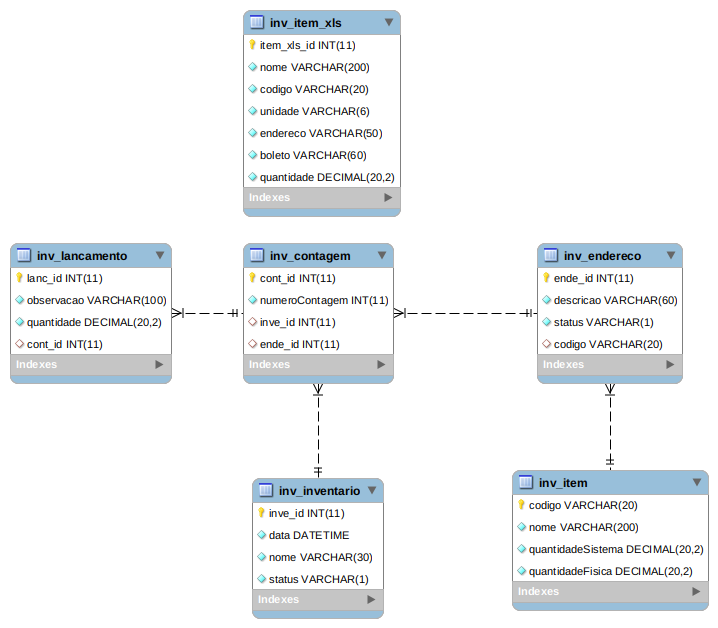
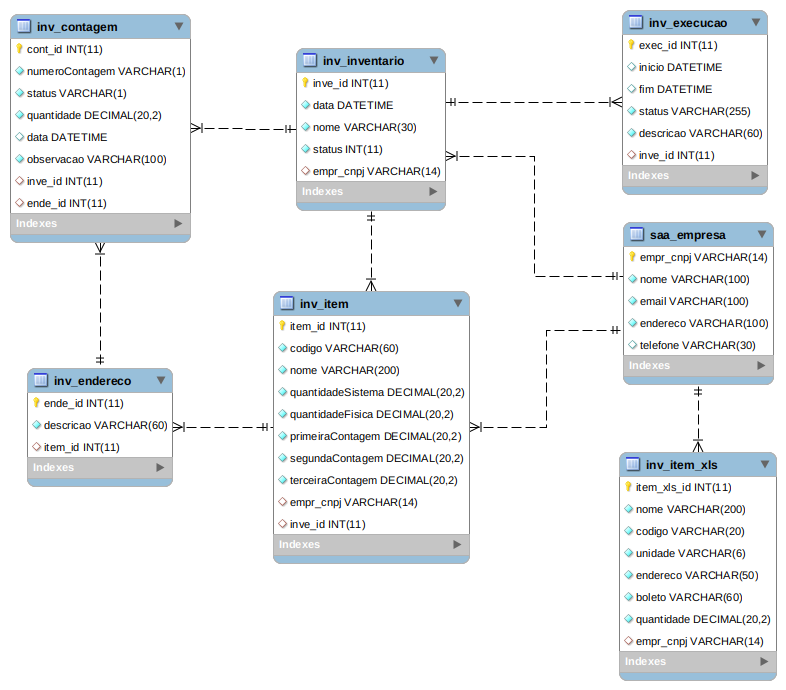
concluir a importacao dos itens

diff --git a/src/controller/ItemController.ts b/src/controller/ItemController.ts
@@ -1,32 +1,15 @@
 import { getRepository } from "typeorm";
 import { NextFunction, Request, Response } from "express";
 import { Item } from "../entity/item";
+import { Inventario } from "../entity/inventario";
+import { Endereco } from "../entity/endereco";
 
 export class ItemController {
 
     private repository = getRepository(Item);
 
-    async all(request: Request, response: Response, next: NextFunction) {
-
-        var sql = ' select distinct codigo, nome, unidade, quantidade as quantidadeSistema, 0.00 as quantidadeFisica from inv_item_xls ';
-        
-        const list = await this.repository.query( sql );
-        
-        list.forEach(element => {
-            var json = {'codigo': element.codigo, 
-                        'nome': element.nome, 
-                        'unidade': element.unidade,
-                        'quantidadeSistema': element.quantidadeSistema,
-                        'quantidadeFisica': element.quantidadeFisica,
-                        'primeiraContagem': 0.00,
-                        'segundaContagem': 0.00,
-                        'terceiraContagem': 0.00
-                    };
-            this.repository.save(json);            
-        });
-        
-        return this.repository.find();
-        
+    async all(request: Request, response: Response, next: NextFunction) {             
+        return this.repository.find();        
     }
 
     async one(request: Request, response: Response, next: NextFunction) {
@@ -40,25 +23,6 @@ export class ItemController {
     async remove(request: Request, response: Response, next: NextFunction) {
         let userToRemove = await this.repository.findOne(request.params.id);
         await this.repository.remove(userToRemove);
-    }
-
-    async import(request: Request, response: Response, next: NextFunction) {
-
-        /*
-        let list = this.repositoryItemXls.createQueryBuilder("itemXls")
-                                .distinctOn(["itemXls.codigo"])
-                                .orderBy("itemXls.codigo");
-        
-        console.log(JSON.stringify(request.body));
-        var data = request.body;
-
-        data.forEach(function (item) {
-            console.log(item.codigo);
-            console.log(item.nome);
-        });        
-        */
-
-       return 'ok';//this.repository.find();
     }
 
 

diff --git a/src/controller/ExecucaoController.ts b/src/controller/ExecucaoController.ts
@@ -48,6 +48,33 @@ export class ExecucaoController {
     }
 
     async finalizarContagem(request: Request, response: Response, next: NextFunction) {
+        console.log('request.body.status='+request.body.status);
+        console.log('request.params.id='+request.params.id);
+        const list = await this.repositoryContagem.createQueryBuilder("contagem")
+                            .innerJoin("contagem.inventario", "inventario")
+                            .where("contagem.status= :status", { status: '0' })
+                            .andWhere("inventario.id = :id", { id: request.params.id })
+                            .getMany();
+
+        console.log('list.length='+list.length);
+
+        if (list.length > 0 ){
+            return response.status(500).send('existem '+list.length+' iten(s) pendente(s) de contagem.');
+        }
+
+        return list;
+        /*
+        try {
+            await this.repository.update(request.params.id, request.body);
+            const inventario = await this.repositoryInventario.findOne(request.body.inventario.id);
+            return await this.repositoryInventario.update(inventario.id, { status: inventario.status + 1 });
+        } catch (error) {
+            return response.status(500).send('erro ao atualizar o status do inventario');
+        }
+        */
+    }
+
+    async finalizarContagemOld(request: Request, response: Response, next: NextFunction) {
         const list = await this.repositoryContagem.createQueryBuilder("contagem")
                             .innerJoin("contagem.inventario", "inventario")
                             .where("contagem.status= :status", { status: request.body.status })
@@ -65,6 +92,7 @@ export class ExecucaoController {
             return response.status(500).send('erro ao atualizar o status do inventario');
         }
     }
+
 
     async remove(request: Request, response: Response, next: NextFunction) {
         let userToRemove = await this.repository.findOne(request.params.id);

diff --git a/src/controller/ItemXlsController.ts b/src/controller/ItemXlsController.ts
@@ -1,10 +1,12 @@
-import {getRepository} from "typeorm";
+import {getRepository, getManager} from "typeorm";
 import {NextFunction, Request, Response} from "express";
 import { ItemXls } from "../entity/item-xls";
 
 export class ItemXlsController {
 
     private repository = getRepository(ItemXls);
+
+    private manager = getManager(); 
 
     async all(request: Request, response: Response, next: NextFunction) {
         return this.repository.find();
@@ -15,27 +17,28 @@ export class ItemXlsController {
     }
 
     async save(request: Request, response: Response, next: NextFunction) {
-        return this.repository.save(request.body);
-    }
-
-    //import todos os itens
-    async saveAll(request: Request, response: Response, next: NextFunction) {
-        /*
-        console.log(JSON.stringify(request.body));
-        var data = request.body;
-
-        data.forEach(function (item) {
-            console.log(item.codigo);
-            console.log(item.nome);
-        });        
-        */
-
-        return this.repository.save(request.body);
+        console.log(0);
+        const list = await this.repository.save(request.body);
+        console.log(1);
+        var sql = 'CALL importarItens(1)';
+        const result = await this.manager.query(sql);
+        console.log(2);
+        return list;
     }
 
     async remove(request: Request, response: Response, next: NextFunction) {
         let userToRemove = await this.repository.findOne(request.params.id);
         await this.repository.remove(userToRemove);
+    }
+
+    async importarItens(request: Request, response: Response, next: NextFunction) {
+        console.log('iniciou a importacao item-xls');
+        const list = await this.repository.save(request.body);
+        console.log('iniciou a importacao item e endereco');
+        var sql = 'CALL importarItens(1)';
+        const result = await this.manager.query(sql);
+        console.log('importcao concluida');
+        return list;
     }
 
 }

diff --git a/src/entity/item.ts b/src/entity/item.ts
@@ -1,10 +1,15 @@
-import { Entity, Column, OneToMany, JoinColumn, Index, PrimaryGeneratedColumn, PrimaryColumn } from "typeorm";
+import { Entity, Column, OneToMany, JoinColumn, PrimaryGeneratedColumn, ManyToOne } from "typeorm";
 import { Endereco } from "./endereco";
+import { Empresa } from "./Empresa";
+import { Inventario } from "./inventario";
 
 @Entity({name:"inv_item"})
 export class Item {
 
-    @PrimaryColumn({ length:20})
+    @PrimaryGeneratedColumn({name:"item_id"})
+    id: string;
+
+    @Column({ length:60 })
     codigo: string;
 
     @Column({length:200, nullable:false})
@@ -25,8 +30,16 @@ export class Item {
     @Column({ type: 'decimal', precision: 20, scale: 2, nullable:false})
     terceiraContagem: number;
 
-    @OneToMany(type => Endereco, endereco => endereco.item)
+    @OneToMany(type => Endereco, endereco => endereco.item, { cascade: true })
     @JoinColumn({ name: "ende_id" })
     enderecos: Endereco[];
+
+    @ManyToOne(type => Empresa, empresa => empresa.itens)
+    @JoinColumn({ name: "empr_cnpj" })
+    empresa: Empresa;
+
+    @ManyToOne(type => Inventario, inventario => inventario.itens)
+    @JoinColumn({ name: "inve_id" })
+    inventario: Inventario;
 
 }

diff --git a/src/entity/inventario.ts b/src/entity/inventario.ts
@@ -1,6 +1,9 @@
-import { Entity, Column, PrimaryGeneratedColumn, OneToMany} from "typeorm";
+import { Entity, Column, PrimaryGeneratedColumn, OneToMany, JoinColumn, ManyToOne} from "typeorm";
 import { Contagem } from "./contagem";
 import { Execucao } from "./execucao";
+import { Item } from "./item";
+import { Empresa } from "./Empresa";
+import { ItemXls } from "./item-xls";
 
 @Entity({name:"inv_inventario"})
 export class Inventario {
@@ -22,5 +25,17 @@ export class Inventario {
 
     @OneToMany(type => Execucao, execucao => execucao.inventario)
     execucoes: Execucao[];
+
+    @OneToMany(type => Item, item => item.inventario)
+    @JoinColumn({ name: "item_id" })
+    itens: Item[];
+
+    @ManyToOne(type => Empresa, empresa => empresa.inventarios)
+    @JoinColumn({ name: "empr_cnpj" })
+    empresa: Empresa;
+
+    @OneToMany(type => ItemXls, itemXls => itemXls.inventario)
+    @JoinColumn({ name: "item_xls_id" })
+    itensXls: ItemXls[];
 
 }

diff --git a/src/entity/Empresa.ts b/src/entity/Empresa.ts
@@ -1,11 +1,11 @@
-import { Entity, Column, PrimaryGeneratedColumn, ManyToOne, JoinColumn, PrimaryColumn } from "typeorm";
+import { Entity, Column, PrimaryColumn, OneToMany, JoinColumn } from "typeorm";
+import { Item } from "./item";
 import { Inventario } from "./inventario";
-import { Endereco } from "./endereco";
 
 @Entity({ name: "saa_empresa" })
 export class Empresa {
 
-    @PrimaryColumn({ length: 14 })
+    @PrimaryColumn({ length: 14, name: "empr_cnpj" })
     cnpj: string;
 
     @Column({ nullable: false, length: 100 })
@@ -19,5 +19,13 @@ export class Empresa {
 
     @Column({ nullable: true, length: 30 })
     telefone: string;
+
+    @OneToMany(type => Item, item => item.empresa)
+    @JoinColumn({ name: "item_id" })
+    itens: Item[];
+
+    @OneToMany(type => Inventario, inventario => inventario.empresa)
+    @JoinColumn({ name: "inve_id" })
+    inventarios: Inventario[];
 
 }

diff --git a/src/entity/item-xls.ts b/src/entity/item-xls.ts
@@ -1,4 +1,5 @@
-import {Entity, Column, PrimaryGeneratedColumn, JoinTable, ManyToMany, OneToMany} from "typeorm";
+import {Entity, Column, PrimaryGeneratedColumn, ManyToOne, JoinColumn} from "typeorm";
+import { Inventario } from "./inventario";
 
 @Entity({name:"inv_item_xls"})
 export class ItemXls {
@@ -23,5 +24,9 @@ export class ItemXls {
 
     @Column({ type: 'decimal', precision: 20, scale: 2, nullable:false})
     quantidade: number;
+
+    @ManyToOne(type => Inventario, inventario => inventario.itensXls)
+    @JoinColumn({ name: "inve_id" })
+    inventario: Inventario;
 
 }

diff --git a/src/routes.ts b/src/routes.ts
@@ -98,9 +98,9 @@ export const Routes = [
     //item
     {
         method: "get",
-        route: "/item",
+        route: "/item/importItens/:inventarioId",
         controller: ItemController,
-        action: "all"
+        action: "importItens"
     }, {
         method: "get",
         route: "/item/:id",
@@ -168,7 +168,7 @@ export const Routes = [
         method: "post",
         route: "/item-import/all",
         controller: ItemXlsController,
-        action: "save"
+        action: "importarItens"
     }, {
         method: "delete",
         route: "/item-import/:id",

diff --git a/src/controller/EnderecoController.ts b/src/controller/EnderecoController.ts
@@ -15,10 +15,9 @@ export class EnderecoController {
         
         list.forEach(element => {
             let item = new Item();
-            item.codigo = element.codigo;
+            item.id = element.id;
             var json = {
                         'descricao': element.endereco,
-                        'status': '0',
                         'item': item
                     };
             this.repository.save(json);            

diff --git a/src/entity/endereco.ts b/src/entity/endereco.ts
@@ -11,11 +11,8 @@ export class Endereco {
     @Column({length:60, nullable:false})
     descricao: string;
 
-    @Column({length:1, nullable:false})
-    status: string;
-
     @ManyToOne(type => Item, item => item.enderecos)
-    @JoinColumn({ name: "codigo" })
+    @JoinColumn({ name: "item_id" })
     item: Item;
 
     @OneToMany(type => Contagem, contagem => contagem.endereco)

diff --git a/src/entity/execucao.ts b/src/entity/execucao.ts
@@ -13,7 +13,7 @@ export class Execucao {
     @Column({nullable:true})
     fim: Date;
 
-    @Column({nullable:false})
+    @Column({nullable:false, length:1})
     status: string;
 
     @Column({length:60, nullable:false})
